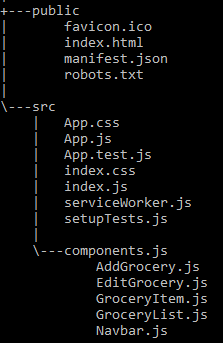
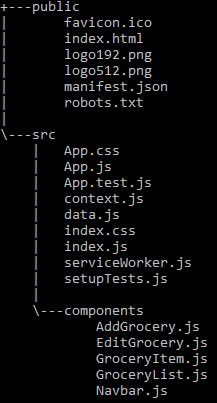
updated readme file

diff --git a/src/context.js b/src/context.js
@@ -73,28 +73,51 @@ class GroceryProvider extends Component {
 
     updateSearchValue = (e, value1) => {
         if (value1 === 'searchCategory') {
-            this.state.searchCategory = e.target.value
+            //this.state.searchCategory = e.target.value
+            this.setState({
+                searchCategory: e.target.value
+            })
         }
     }
 
     updateValue = (e, value1) => {
         if (value1 === 'name') {
             this.state.name = e.target.value
+            // this.setState({
+            //     name: e.target.value
+            // })
+
+
         }
         if (value1 === 'image') {
             this.state.image = e.target.value
+            // this.setState({
+            //     image: e.target.value
+            // })
         }
         if (value1 === 'expiration') {
             this.state.expiration = e.target.value
+            // this.setState({
+            //     expiration: e.target.value
+            // })
         }
         if (value1 === 'category') {
             this.state.category = e.target.value
+            // this.setState({
+            //     category: e.target.value
+            // })
         }
         if (value1 === 'qty') {
             this.state.qty = e.target.value
+            // this.setState({
+            //     qty: e.target.value
+            // })
         }
         if (value1 === 'searchCategory') {
             this.state.searchCategory = e.target.value
+            // this.setState({
+            //     searchCategory: e.target.value
+            // })
         }
 
         const tempArr = [

diff --git a/src/components/GroceryItem.js b/src/components/GroceryItem.js
@@ -16,7 +16,7 @@ export default class GroceryItem extends Component {
         //return [date.getFullYear(), mnth, day].join("-");
     };
     render() {
-        const { id, name, image, qty, expiration, category, removeGrocery, editGrocery } = this.props.grocery;
+        const { id, name, image, qty, expiration, category } = this.props.grocery;
         console.log(this.props.grocery)
 
         return (

diff --git a/README.md b/README.md
@@ -1,6 +1,6 @@
 # Grocery Inventory Tracker
 
-This is a Single Page Application (SPA) built using React and context api; with this app you will be able to Grocery Inventory Store that tracks expiration and quantity. We will be able to create, read, update and delete items created.
+This is a Single Page Application (SPA) built using React and context api. In this tutorial you will be able to build a  Grocery Inventory Store that tracks expiration and quantity. We will be able to create, read, update and delete items created.
 
 ## Setup
 
@@ -9,7 +9,7 @@ We will use `npx create react app` , this helps us to quickly setup our develope
 ### Installation 
 
 I will be using vscode as my code editor, but we are free to use any code editor.
-To start, we open the command line and cd to where we want to have our app installed, then installation we do
+To start, we open the command line and cd to where we want to have our app installed, and run code below:
 
 ```javascript
 npx create-react-app grocery-inventory-tracker
@@ -21,16 +21,16 @@ For this project we will be using react state and  react context api.
 React Context Api helps us to create a global variable that can be passed around in our react App. Usually data is passed down from parent to child in a typical react app as _props_ . You can read more on [React Context API](https://reactjs.org/docs/context.html) .
 
 ## Folder Structure
-We create __components__ subfolder in _src_ . In the _components_ folder we create the following files, _AddGrocery.js_, _EditGrocery.js_, _GroceryItem.js_, _GroceryList.js_, _Navbar.js_ .
+We create __components__ subfolder in _src_ folder . In the _components_ folder we create the following files, _AddGrocery.js_, _EditGrocery.js_, _GroceryItem.js_, _GroceryList.js_, _Navbar.js_ .
 We also create two other files in the root folder. These are _data.js_ that will host all our grocery objects and a _context.js_ .
 
-![Folder Tree Structure](public/tree-structure.PNG)
+![Folder Tree Structure](public/tree-structure.png)
 
 ## Dependencies
 
 For this app we will require and install the following dependencies
 
-```javascript
+```
 npm install --save react-router-dom uuid moment react-datepicker
 ```
 * react-router-dom - This helps with client-side routing in a Single Page App that allows for navigation without page refreshing.
@@ -40,7 +40,7 @@ npm install --save react-router-dom uuid moment react-datepicker
 
 ## index.html
 
-In our _index.html file we will have two cdn links for fontawesom icons and we use bootstrap for styling and rename the title tag as blow. Notice that we have a div with _id_ root . This is where our app will be displayed.
+In our _index.html_ file we will have two cdn links for fontawesome icons and we use bootstrap for styling and rename the title tag as below. Notice that we have a div with _id_ root . This is where our app will be displayed.
 
 ```html
   <!DOCTYPE html>
@@ -72,4 +72,13 @@ In our _index.html file we will have two cdn links for fontawesom icons and we u
   ```
 
 
-## index.js
+## App.js
+
+Next, in our _App.js_ file we create a class base component and import _React_, _switch_, _route_, _Navbar_, _GroceryList_, _AddGrocery_, _EditGrocery_, as seen below.
+
+When we installed _react-router-dom_ , it comes with 4 things :
+* Browser router - holds all info about our route
+* Switch - for grouping our routes
+* route - this will display specific routes
+* Link - serves as an anchor tag
+
